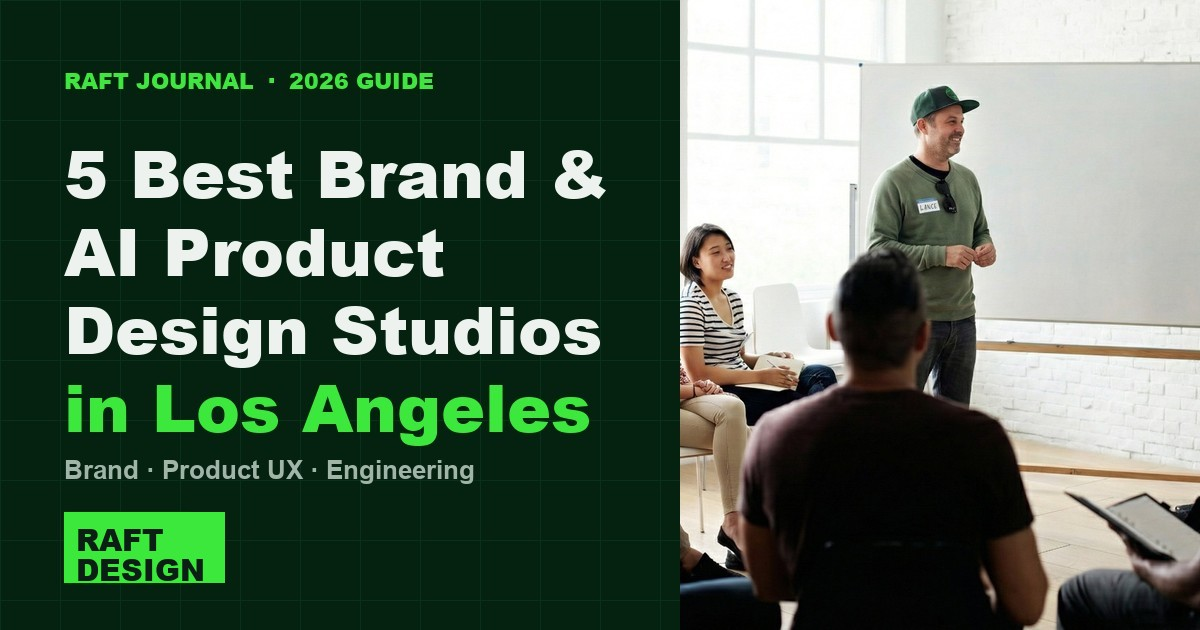
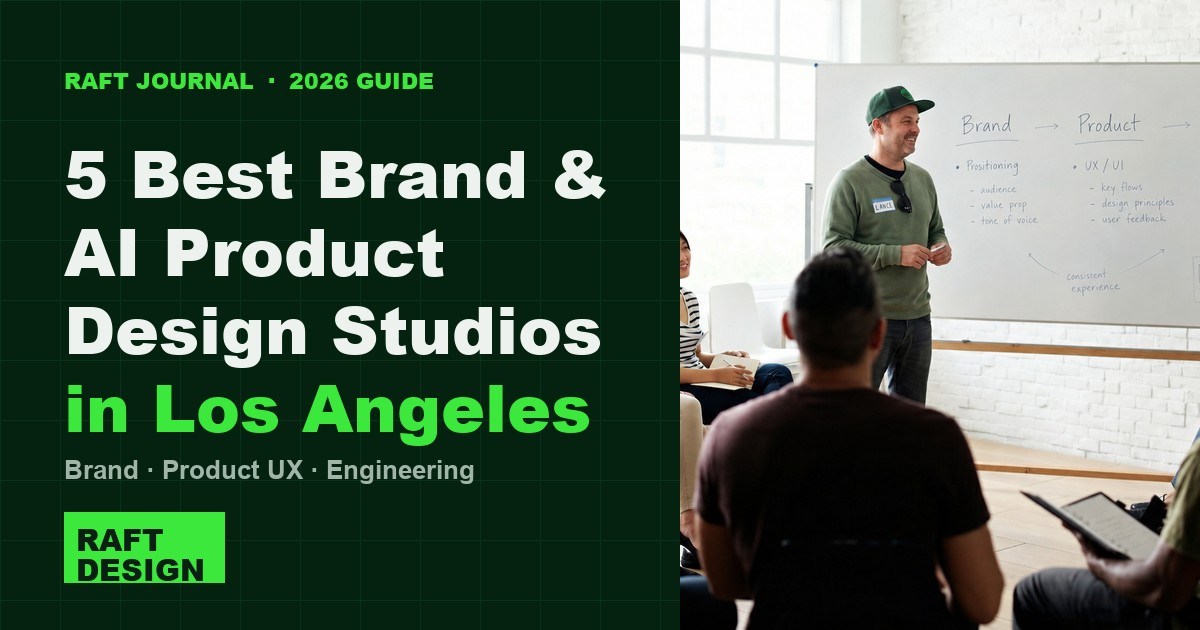
Replace roundup key image with the whiteboard workshop photo

Changed region(s): [[0.555, 0.0, 1.0, 1.0], [0.8942, 0.181, 0.9558, 0.2111], [0.925, 0.3317, 0.9558, 0.3619]]

diff --git a/journal/index.html b/journal/index.html
@@ -254,7 +254,7 @@
     <div class="journal-grid">
       <div class="journal-row">
         <a href="/journal/best-ai-product-design-studios-los-angeles/" class="journal-card">
-          <img class="journal-card-image" src="../images/Raft-Design-Founder.jpg" width="2432" height="1728" alt="Thumbnail for &quot;5 Best Brand and AI Product Design Studios for Startups in Los Angeles (2026)&quot;" loading="lazy">
+          <img class="journal-card-image" src="../images/lance-shields-brand-product-system-workshop.jpg" width="1487" height="1058" alt="Thumbnail for &quot;5 Best Brand and AI Product Design Studios for Startups in Los Angeles (2026)&quot;" loading="lazy">
           <p class="journal-card-title">5 Best Brand and AI Product Design Studios for Startups in Los Angeles (2026)</p>
           <p class="journal-card-excerpt">Five Los Angeles design partners, five different strengths. A practical guide for AI startups choosing between brand, product UX, design systems, and engineering.</p>
           <p class="journal-card-link text-link">Read article <span class="arrow">→</span></p>

diff --git a/journal/best-ai-product-design-studios-los-angeles/index.html b/journal/best-ai-product-design-studios-los-angeles/index.html
@@ -208,7 +208,7 @@
         <h1 class="article-title">5 Best Brand and AI Product Design Studios for Startups in Los Angeles (2026)</h1>
         <p class="article-subhead">Five studios, five different strengths—from integrated brand and product foundations to UX research, software engineering, and ambitious digital launches.</p>
       </div>
-      <img class="article-hero-image" src="../../images/Raft-Design-Founder.jpg" width="2432" height="1728" alt="Lance Shields, wearing a green cap, standing in front of a whiteboard and speaking with a seated group in a bright workshop space" loading="eager" style="object-position:center 12%">
+      <img class="article-hero-image" src="../../images/lance-shields-brand-product-system-workshop.jpg" width="1487" height="1058" alt="Lance Shields, wearing a green cap, standing beside a whiteboard sketched with “Brand → Product → System” while speaking with a seated group in a bright workshop space" loading="eager" style="object-position:center 25%">
     </div>
 
     <div class="article-body">

diff --git a/index.html b/index.html
@@ -468,7 +468,7 @@
       <div class="journal-carousel-track" data-carousel-track>
           <a href="/journal/best-ai-product-design-studios-los-angeles/" class="journal-carousel-card">
             <div class="journal-carousel-card-image-wrap">
-              <img class="journal-carousel-card-image" src="images/Raft-Design-Founder.jpg" width="2432" height="1728" alt="Thumbnail for &quot;5 Best Brand and AI Product Design Studios for Startups in Los Angeles (2026)&quot;" loading="lazy">
+              <img class="journal-carousel-card-image" src="images/lance-shields-brand-product-system-workshop.jpg" width="1487" height="1058" alt="Thumbnail for &quot;5 Best Brand and AI Product Design Studios for Startups in Los Angeles (2026)&quot;" loading="lazy">
             </div>
             <div class="journal-carousel-card-body">
               <p class="journal-carousel-card-title">5 Best Brand and AI Product Design Studios for Startups in Los Angeles (2026)</p>
